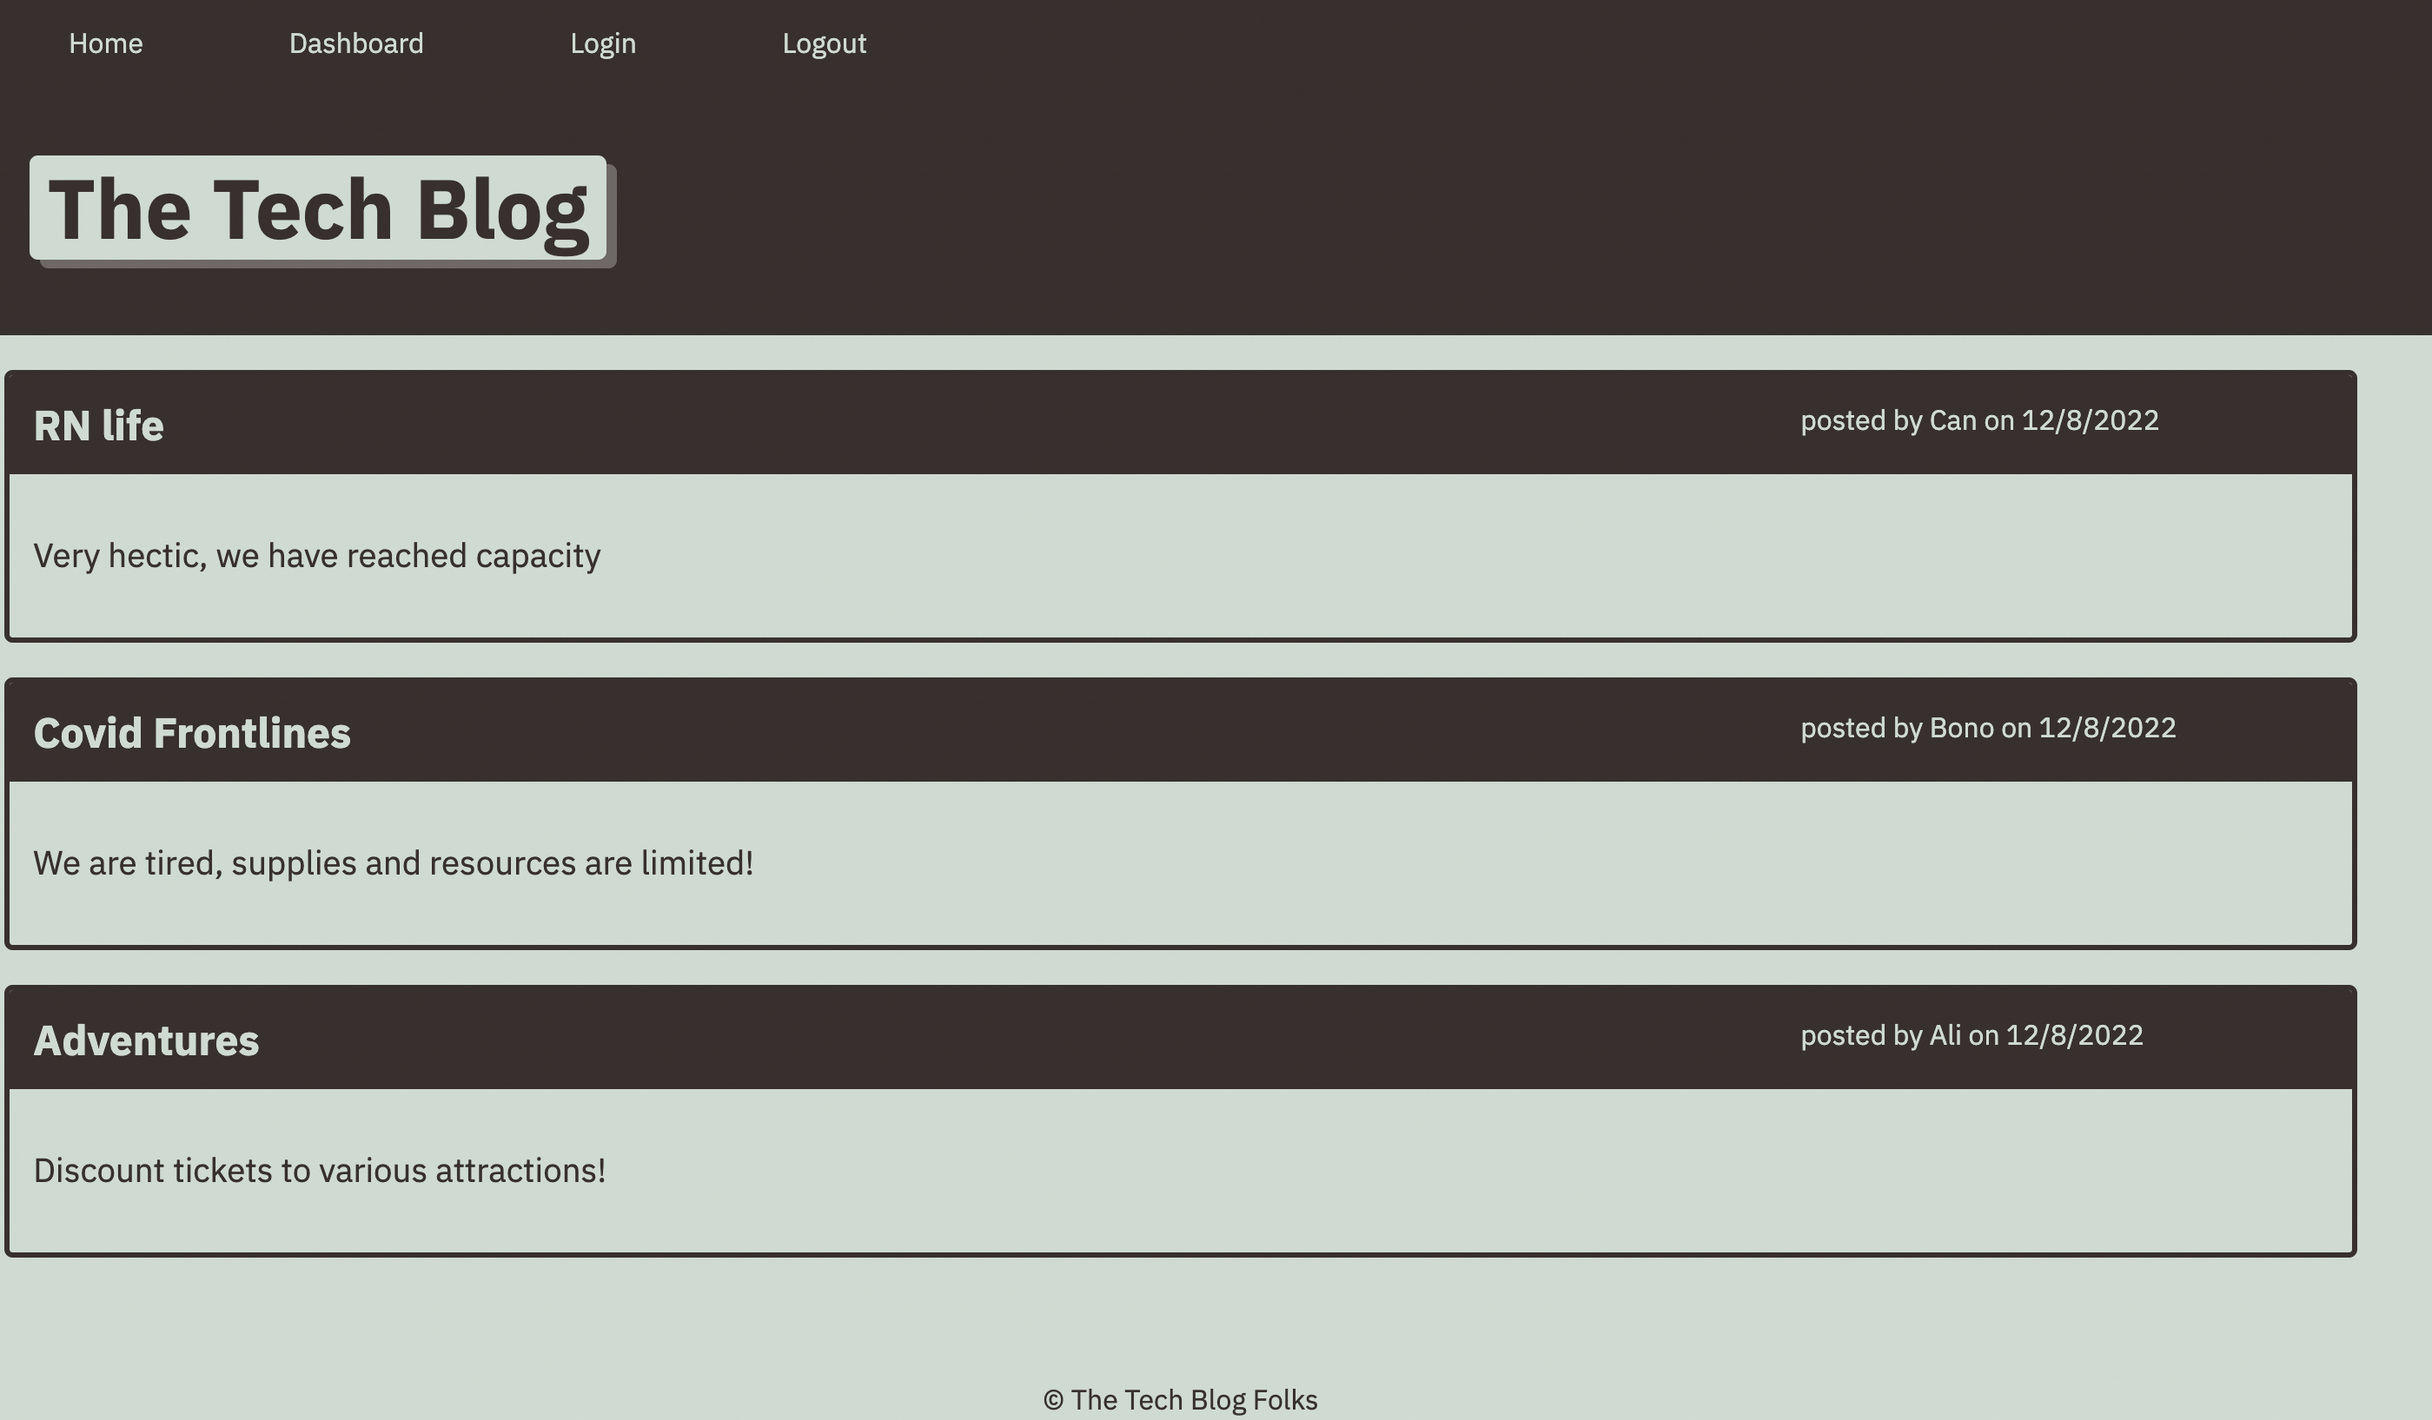
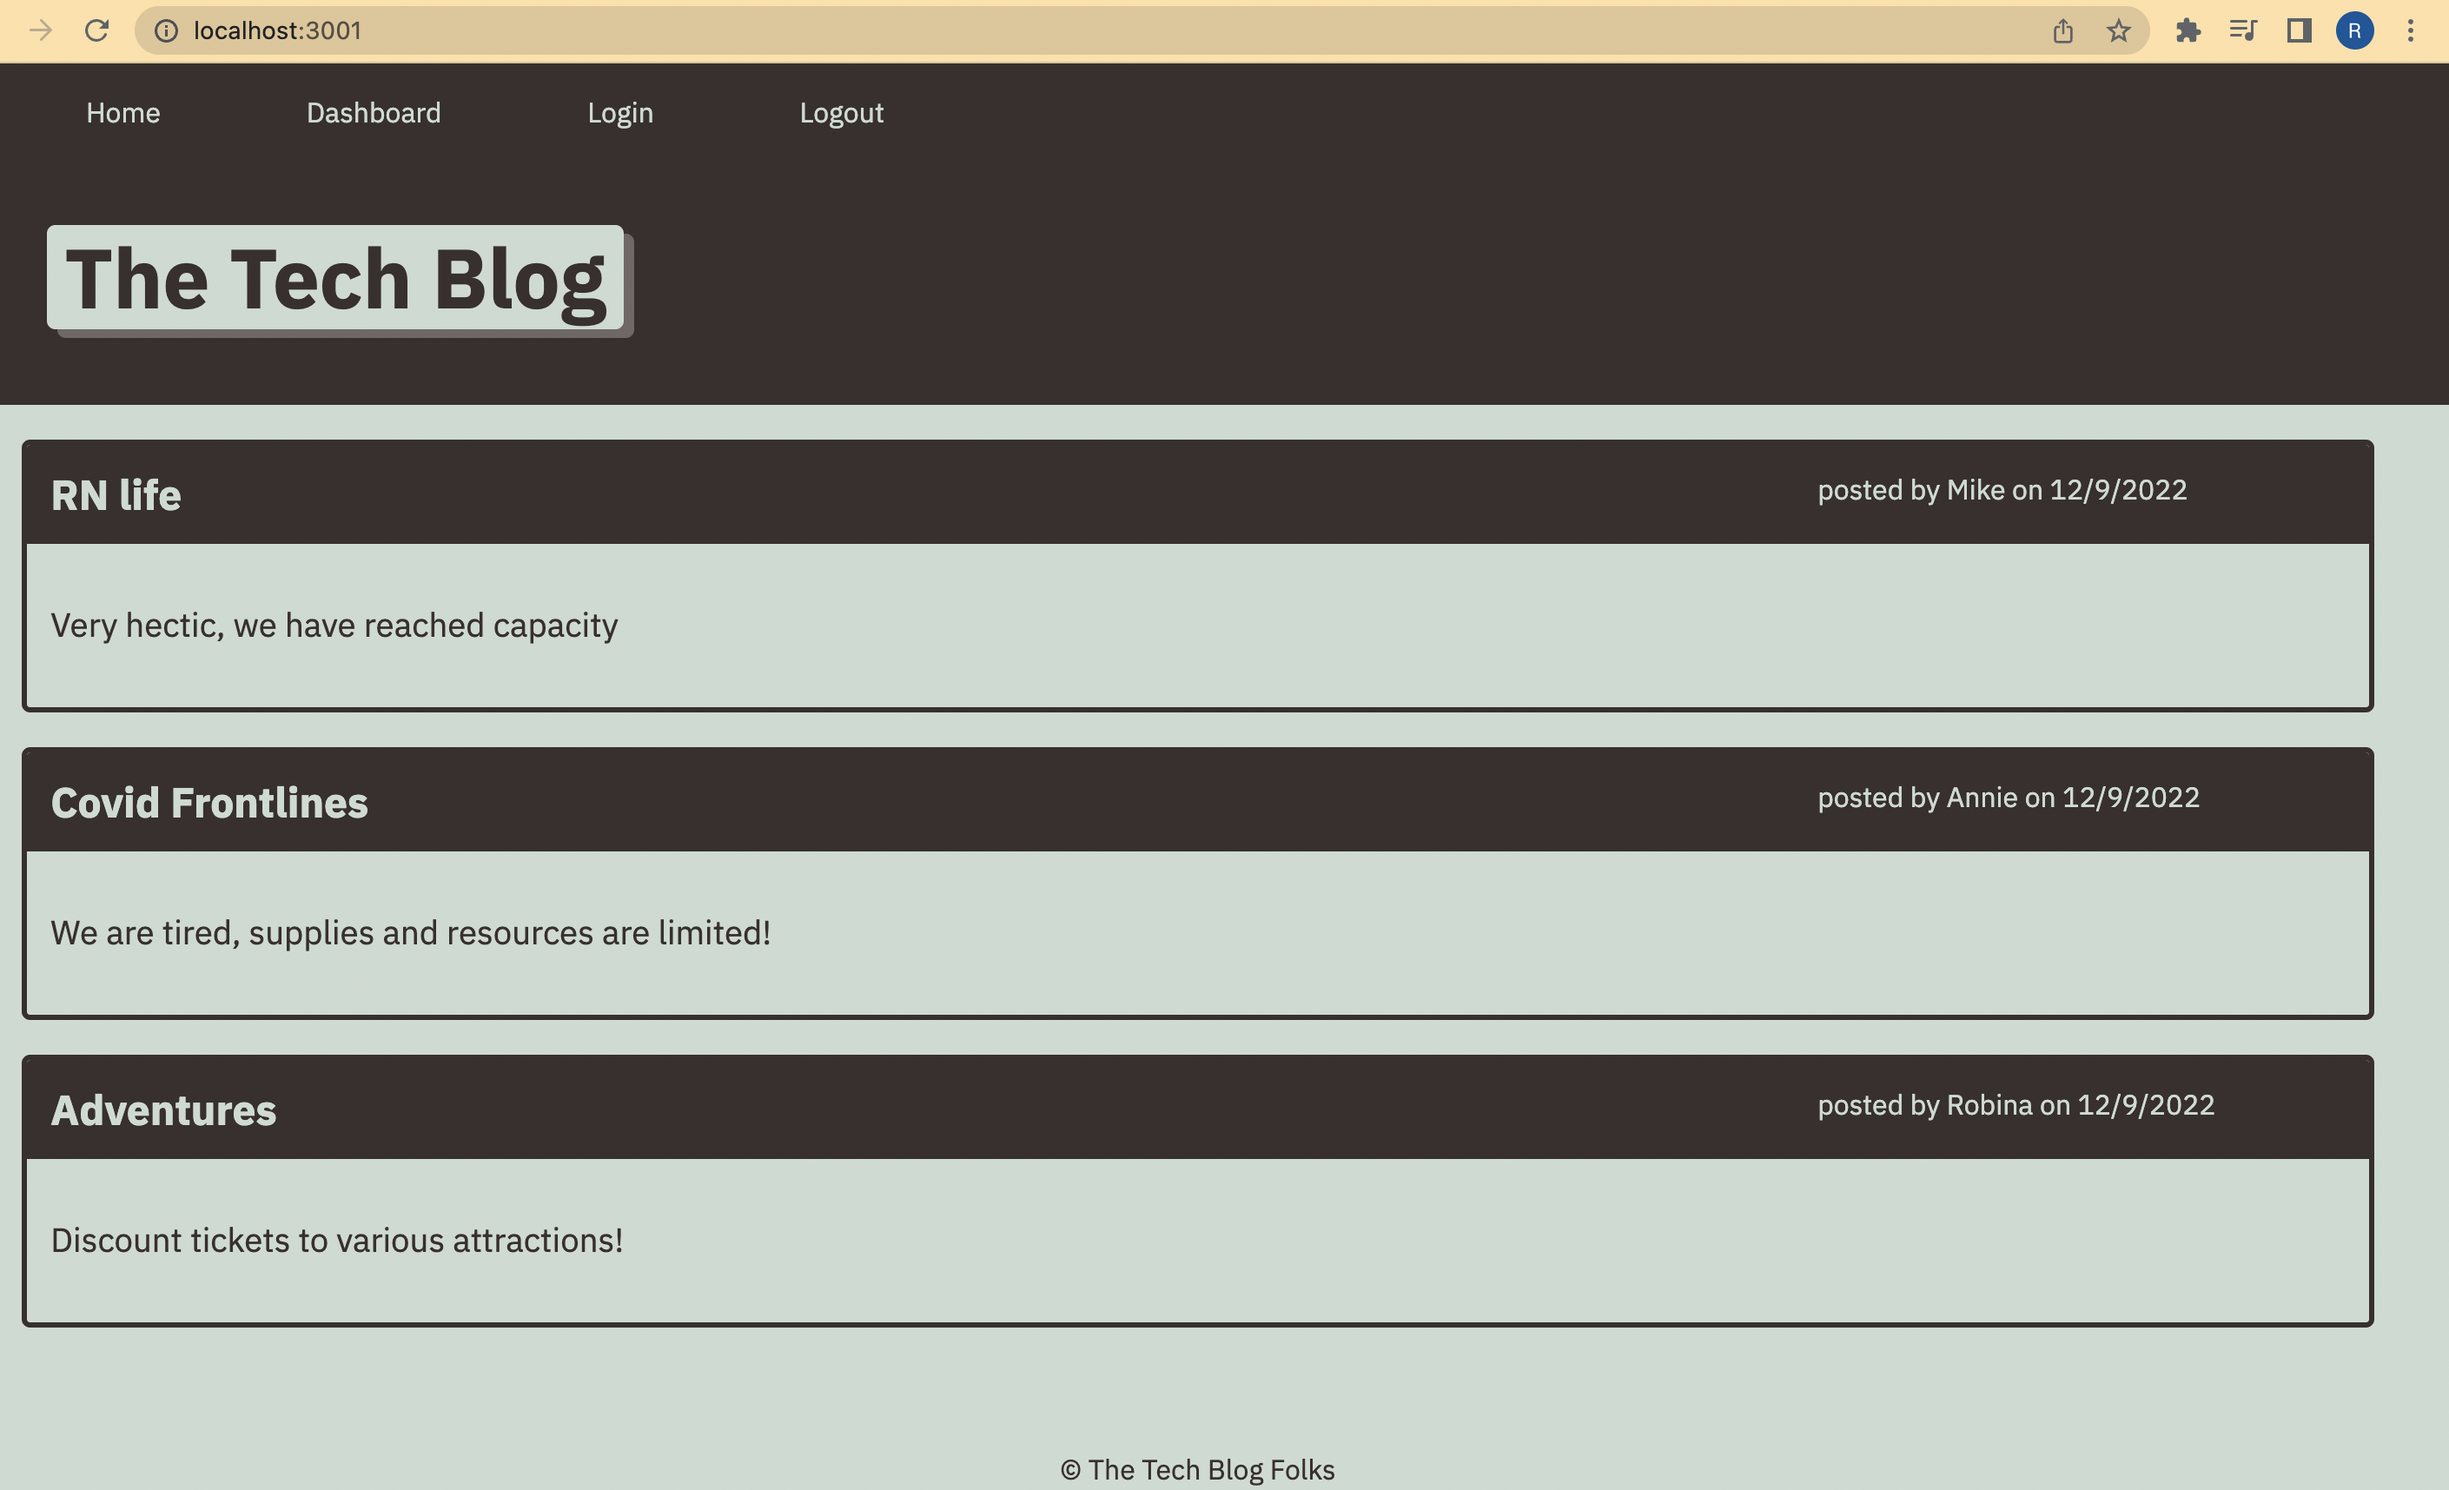
added screen shot

Changed region(s): [[0.0, 0.0, 1.0, 0.9046], [0.4352, 0.967, 0.5595, 0.9982]]

diff --git a/seeds/userData.js b/seeds/userData.js
@@ -3,15 +3,15 @@ const { User } = require('../models');
 const userdata =
 [
   {
-    "username": "Can",
+    "username": "Robina",
     "password": "password"
   },
   {
-    "username": "Ali",
+    "username": "Annie",
     "password": "password"
   },
   {
-    "username": "Bono",
+    "username": "Mike",
     "password": "password"
   }
 ];
